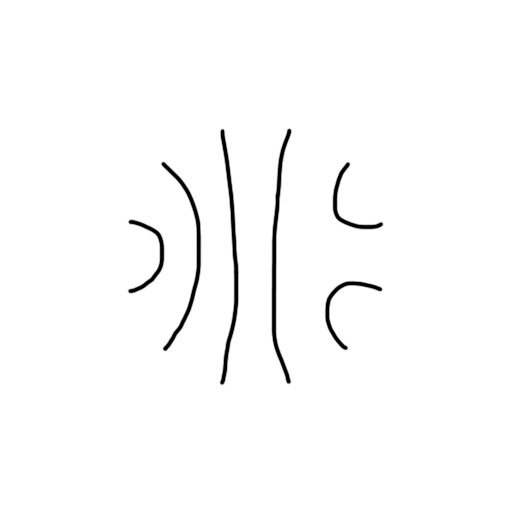
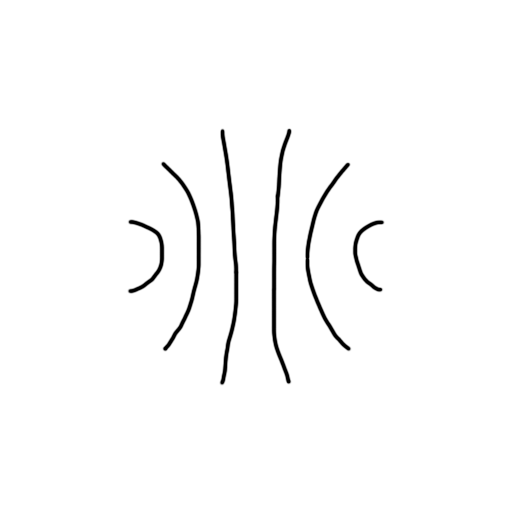
Оптимизировал генерацию вращений, использовав openCV2 вместо Pillow. И реализовал закрашивание внешней области для более быстрого отбора нужных расположений

Changed region(s): [[0.5938, 0.3125, 0.6875, 0.6562], [0.6562, 0.4062, 0.75, 0.5625], [0.6562, 0.6562, 0.6875, 0.6875]]

diff --git a/circle_rotation.py b/circle_rotation.py
@@ -1,6 +1,10 @@
 from PIL import Image
 import os
+import cv2
+import numpy as np
+import time
 
+start = time.time()
 print('Program started!')
 
 # Пути к директориям
@@ -17,38 +21,75 @@ rotation_steps = num_segments  # Количество поворотов для 
 inner_circle_files = os.listdir(inner_arch_folder)
 external_circle_files = os.listdir(external_arch_folder)
 
+def coloring(image):
+    start_point = (10, 10)
+    fill_color = (150, 150, 255)
+    cv2.floodFill(image, None, start_point, fill_color)
+    return image
+
+
+def Rotation(image, angle):
+    rot_mat = cv2.getRotationMatrix2D(angle=angle, scale=1., center=(256, 256))
+    rotated_circle = cv2.warpAffine(image, rot_mat, image.shape[1::-1], flags=cv2.INTER_LINEAR, borderMode=1)
+    return rotated_circle
+
+
+def combining(inner, external, rotation_steps):
+    # rotation
+    for step in range(rotation_steps):
+        angle = step * rotation_angle
+        rotated_inner = Rotation(image=inner, angle=angle)
+
+        #combining
+        combination = cv2.addWeighted(external, 0.5, rotated_inner, 0.5, 0)
+        gray = cv2.cvtColor(combination, cv2.COLOR_BGR2HSV)[:, :, 2]
+        T = cv2.ximgproc.niBlackThreshold(gray, maxValue=255, type=cv2.THRESH_BINARY_INV, blockSize=81,
+                                          k=0.1, binarizationMethod=cv2.ximgproc.BINARIZATION_WOLF)
+        grayb = (gray > T).astype("uint8") * 255
+
+        # smoothing
+        kernel = np.ones((5, 5), np.float32) / 12
+        dst = cv2.filter2D(grayb, -1, kernel)
+
+        # saving
+        new_filename = f'circle_e{external_parts[0]}_i{inner_parts[0]}_s{step}.png'
+        output_path = os.path.join(f'{output_folder}/external_{external_parts[0]}', new_filename)
+        data = Image.fromarray(dst)
+        data.save(output_path)
+
+        # coloring
+        output_path_colored = os.path.join(f'{output_folder}_colored/external_{external_parts[0]}', new_filename)
+        data_colored = Image.fromarray(coloring(image=dst))
+        data_colored.save(output_path_colored)
+
+
 for external_circle_file in external_circle_files:
     if external_circle_file.lower().endswith(('.png', '.jpg', '.jpeg')):
         external_circle_path = os.path.join(external_arch_folder, external_circle_file)
-        external_circle = Image.open(external_circle_path)
+        external_circle = cv2.imread(external_circle_path)
+
         for inner_circle_file in inner_circle_files:
             if inner_circle_file.lower().endswith(('.png', '.jpg', '.jpeg')):
                 inner_circle_path = os.path.join(inner_arch_folder, inner_circle_file)
-                inner_circle = Image.open(inner_circle_path)
+                inner_circle = cv2.imread(inner_circle_path)
 
                 # Создание папки с перебором
                 inner_parts = inner_circle_file.split('.')
                 external_parts = external_circle_file.split('.')
                 if f'external_{external_parts[0]}' not in os.listdir(output_folder):
                     os.mkdir(f'{output_folder}/external_{external_parts[0]}')
-                # extra_output_folder = os.
+                if f'external_{external_parts[0]}' not in os.listdir(f'{output_folder}_colored'):
+                    os.mkdir(f'{output_folder}_colored/external_{external_parts[0]}')
 
                 # Поворот и сохранение изображений
-                for step in range(rotation_steps):
-                    angle = step * rotation_angle
-                    rotated_circle = inner_circle.rotate(angle, expand=False, resample=Image.BICUBIC)
+                combining(inner_circle, external_circle, rotation_steps)
 
-                    # Наложение внешних дуг на внутренние
-                    result_image = Image.new('RGBA', rotated_circle.size)
-                    result_image.paste(rotated_circle, (0, 0))
-
-                    # Наложение внешних дуг на внутренние с учетом альфа-канала
-                    result_image.paste(external_circle, (0, 0), external_circle)
-
-                    # Название и сохранение
-                    new_filename = f'circle_e{external_parts[0]}_i{inner_parts[0]}_s{step}.png'
-                    output_path = os.path.join(f'{output_folder}/external_{external_parts[0]}', new_filename)
-                    result_image.save(output_path)
+"""Доделать"""
+# почистить те, которые не удовлетворяют, потом прогой оставить пересечения по названиям
 
 
 print('Done!')
+end = time.time()
+print('Program processed', end-start, 'seconds') # 636 секунд c Pillow без заливки
+                                                 # 281 секунд с openCV + заливка
+                                                 # 108 секунд c openCV без заливки

diff --git a/Arcs.py b/Arcs.py
@@ -2,10 +2,10 @@ import numpy as np
 import copy
 
 generated_numbers = np.array([])
-k = 22 # количество точек на прямой (обязательно чётное)
+k = 12  # количество точек на прямой (обязательно чётное)
 init = list(np.zeros(k)) # пустой список, куда будем писать последовательности
-cnt = 0 # разница между 1 и 0
-ind = 0 # индекс, по которому пишем число в список
+cnt = 0  # разница между 1 и 0
+ind = 0  # индекс, по которому пишем число в список
 
 
 def f(cnt, ind, k, init):
@@ -86,4 +86,4 @@ for elem in output_numbers:
 # print(final_result)
 print("Всего принципиально различных расположений:", len(final_result))
 
-# output(final_result)
+output(final_result)
